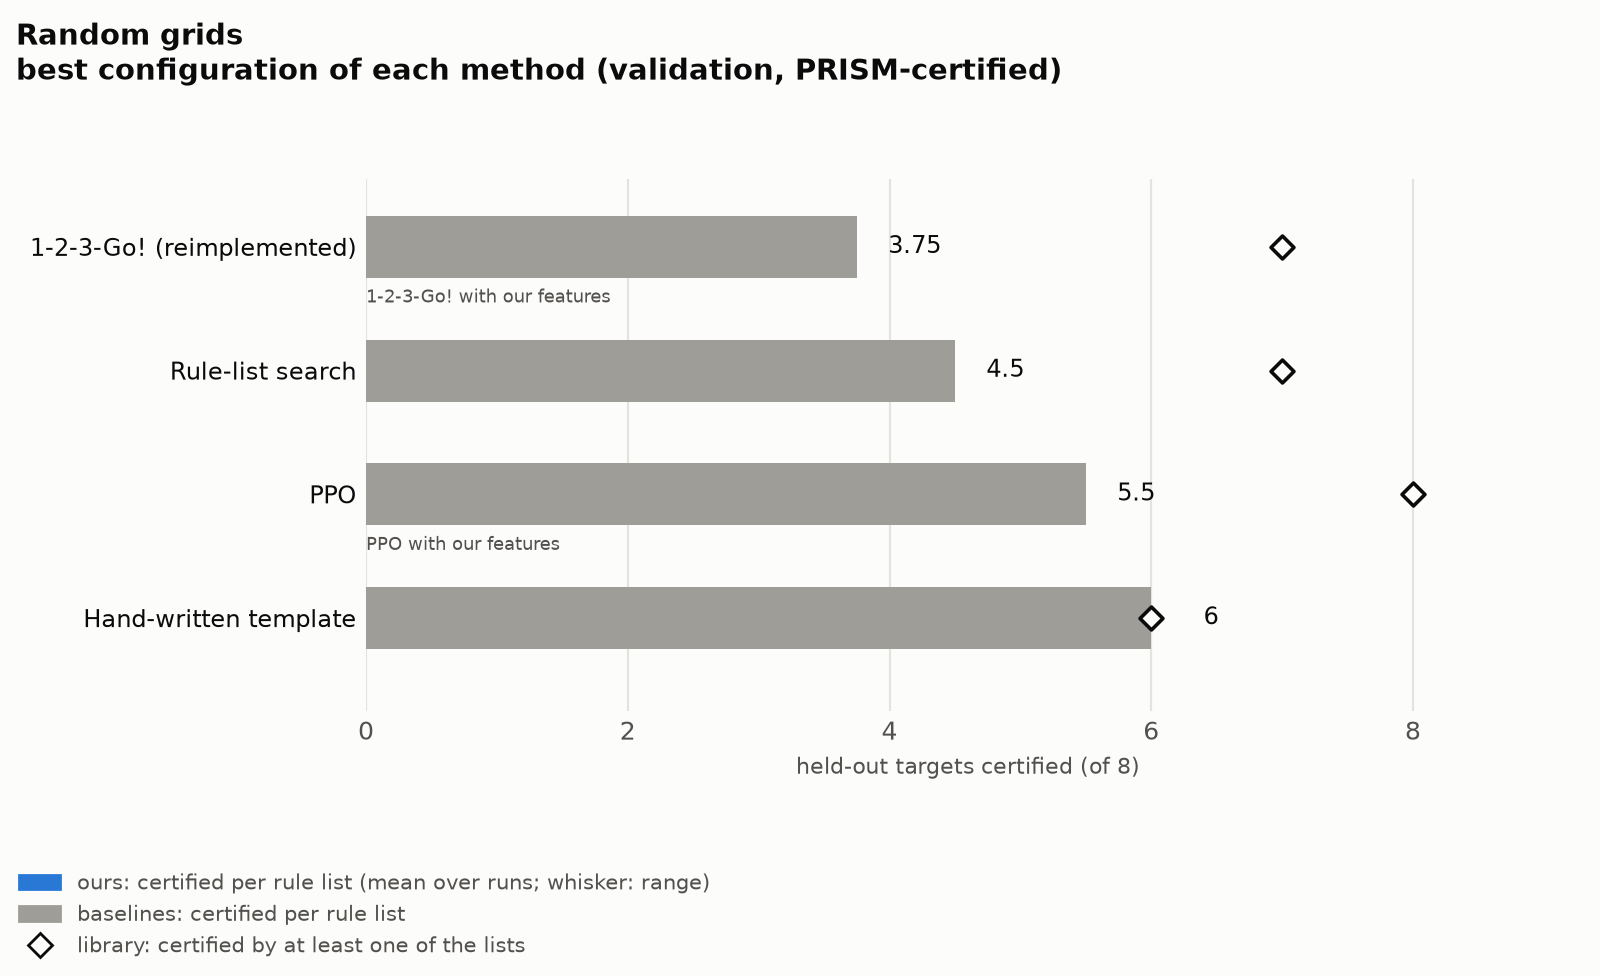
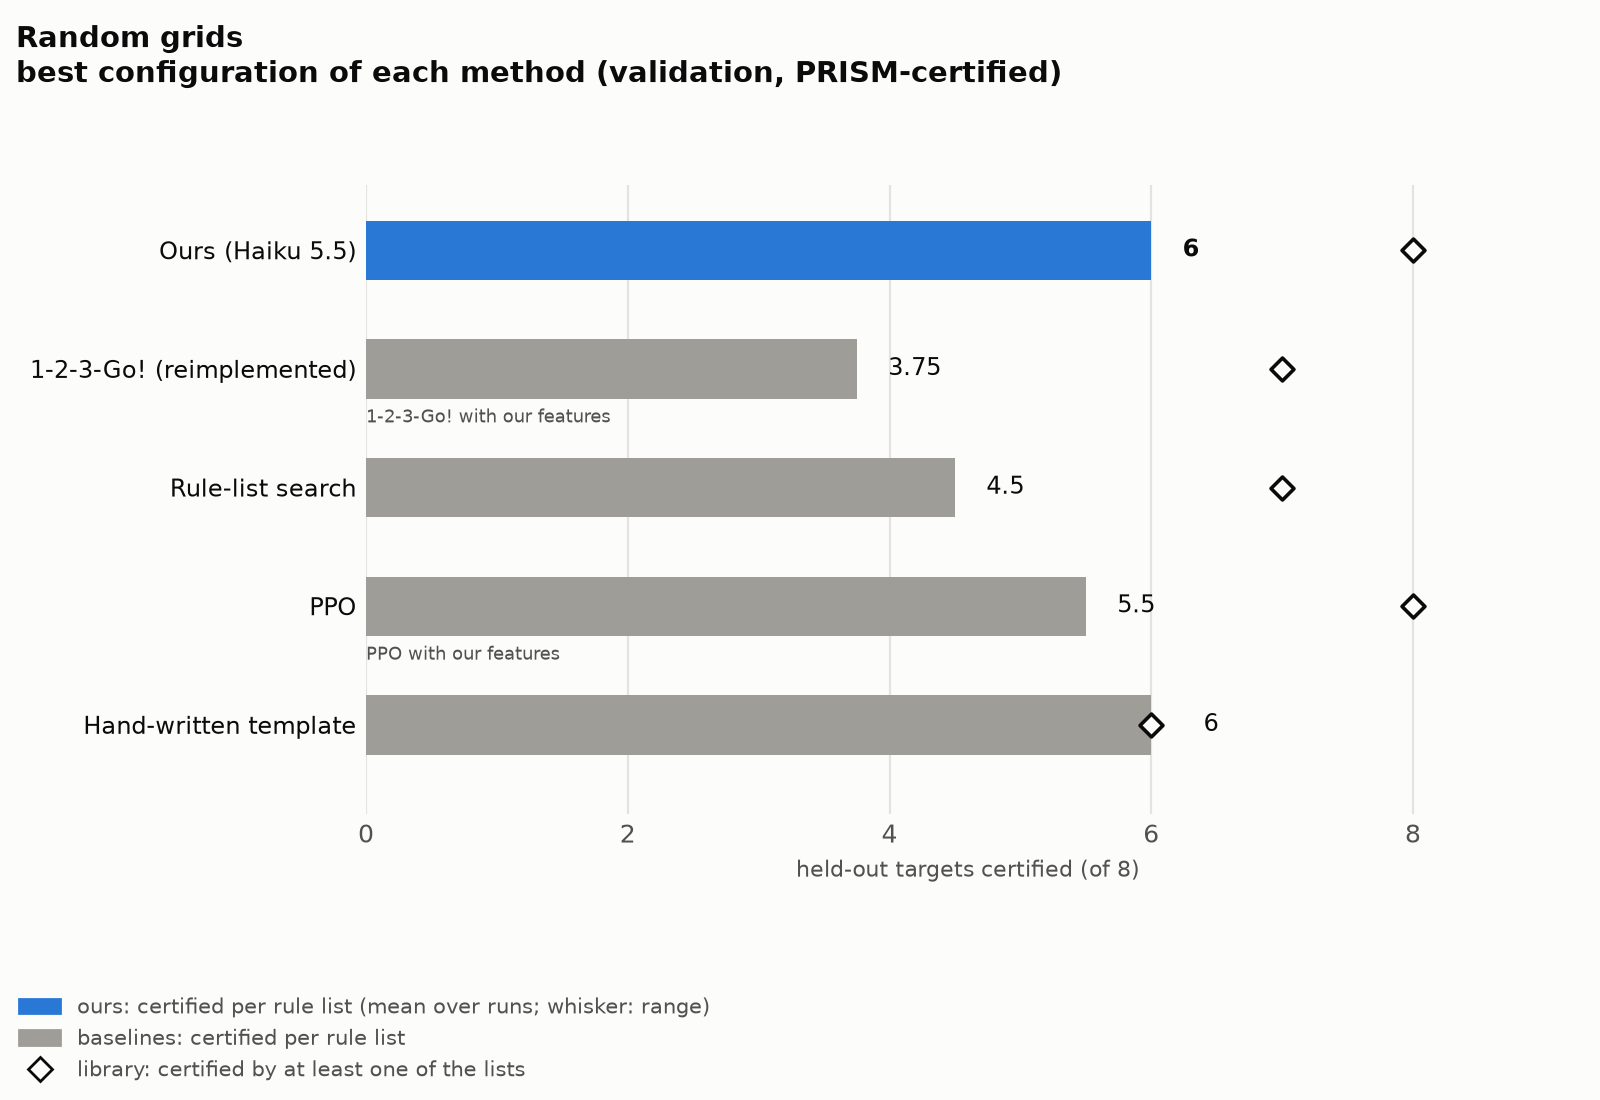
Reports rebuilt with the rebuilt loop as RQ1's core (random grids repeat 1: 6.00) and the previous-loop page

diff --git a/PRISM-Guided-Learning/out/results/experiments/rq2_previous_loop/REPORT.md b/PRISM-Guided-Learning/out/results/experiments/rq2_previous_loop/REPORT.md
@@ -10,9 +10,9 @@ Targets 12-19 (each list's own training instances left out); certified of 8.
 
 | condition | code | runs | certified | Δ vs reference | ties open | library | sets solved | rounds / set | output tokens / set |
 |---|---|---|---|---|---|---|---|---|---|
-| New loop (core) | New | 0 | – | – | – | – | – | – | – |
-| Previous loop, Haiku 5.5 | Prev | 5 | 6.25 (5.50–7.00) | – | 5.20 (4.00–6.25) | 8.0 | 10% (0%–25%) | 4.9 (4.5–5.0) | 11,315 (8,570–15,009) |
-| Previous loop, Sonnet 5.5 | Prev Sonnet | 3 | 6.67 (5.75–7.25) | – | 6.42 (5.50–7.00) | 8.0 | 75% | 2.8 (2.8–3.0) | 27,330 (22,730–35,251) |
+| New loop (core) | New | 1 | 6.00 | reference | 6.00 | 8.0 | 75% | 55.5 | 117,726 |
+| Previous loop, Haiku 5.5 | Prev | 5 | 6.25 (5.50–7.00) | +0.25 [-0.10, +0.60] | 5.20 (4.00–6.25) | 8.0 | 10% (0%–25%) | 4.9 (4.5–5.0) | 11,315 (8,570–15,009) |
+| Previous loop, Sonnet 5.5 | Prev Sonnet | 3 | 6.67 (5.75–7.25) | +0.67 [+0.17, +1.17] | 6.42 (5.50–7.00) | 8.0 | 75% | 2.8 (2.8–3.0) | 27,330 (22,730–35,251) |
 
 ## Random grids without `closer`
 
@@ -20,9 +20,9 @@ Targets 12-19 (each list's own training instances left out); certified of 8.
 
 | condition | code | runs | certified | Δ vs reference | ties open | library | sets solved | rounds / set | output tokens / set |
 |---|---|---|---|---|---|---|---|---|---|
-| New loop (core) | New | 0 | – | – | – | – | – | – | – |
-| Previous loop, Haiku 5.5 | Prev | 5 | 3.40 (3.00–3.75) | – | 0.00 | 6.0 (5.0–7.0) | 0% | 5.0 | 13,596 (12,449–15,153) |
-| Previous loop, Sonnet 5.5 | Prev Sonnet | 3 | 2.92 (2.75–3.00) | – | 0.58 (0.50–0.75) | 6.3 (6.0–7.0) | 50% | 3.9 (3.8–4.0) | 54,993 (47,218–70,154) |
+| New loop (core) | New | 1 | 3.25 | reference | 3.25 | 6.0 | 50% | 55.5 | 108,444 |
+| Previous loop, Haiku 5.5 | Prev | 5 | 3.40 (3.00–3.75) | +0.15 [-0.05, +0.35] | 0.00 | 6.0 (5.0–7.0) | 0% | 5.0 | 13,596 (12,449–15,153) |
+| Previous loop, Sonnet 5.5 | Prev Sonnet | 3 | 2.92 (2.75–3.00) | -0.33 [-0.42, -0.25] | 0.58 (0.50–0.75) | 6.3 (6.0–7.0) | 50% | 3.9 (3.8–4.0) | 54,993 (47,218–70,154) |
 
 ## Gridworld families
 

diff --git a/PRISM-Guided-Learning/out/results/experiments/README.md b/PRISM-Guided-Learning/out/results/experiments/README.md
@@ -12,7 +12,7 @@ RQ2 at a glance: [rq2_overview.png](rq2_overview.png) (every ablation cell again
 
 | cell | grids | grids_noclose | families | pacman | mer | mer_n | mer_one | mer_n_one |
 |---|---|---|---|---|---|---|---|---|
-| Ours, Haiku 5.5 | 0/3 (launch: false) | 0/3 (launch: false) | 3/3 ✓ | 3/3 ✓ | 3/3 ✓ | 3/3 ✓ | 3/3 ✓ | 3/3 ✓ |
+| Ours, Haiku 5.5 | 1/3 (launch: false) | 1/3 (launch: false) | 3/3 ✓ | 3/3 ✓ | 3/3 ✓ | 3/3 ✓ | 3/3 ✓ | 3/3 ✓ |
 | 1-2-3-Go! (reimplemented: trees over raw variables) (baseline) | certified ✓ |  | certified ✓ | certified ✓ | certified ✓ | certified ✓ | certified ✓ | certified ✓ |
 | 1-2-3-Go! trained on horizon 5 (as the paper) (baseline) |  |  |  | certified ✓ |  |  |  |  |
 | 1-2-3-Go! trained on n = 1 (as the paper) (baseline) |  |  |  |  | certified ✓ | certified ✓ |  |  |
@@ -83,7 +83,7 @@ RQ2 at a glance: [rq2_overview.png](rq2_overview.png) (every ablation cell again
 
 | cell | grids | grids_noclose | families | pacman | mer | mer_n |
 |---|---|---|---|---|---|---|
-| New loop (core) | 0/3 (launch: false) | 0/3 (launch: false) | 3/3 ✓ | 3/3 ✓ | 3/3 ✓ | 3/3 ✓ |
+| New loop (core) | 1/3 (launch: false) | 1/3 (launch: false) | 3/3 ✓ | 3/3 ✓ | 3/3 ✓ | 3/3 ✓ |
 | Previous loop, Haiku 5.5 | 5/5 ✓ | 5/5 ✓ | 5/5 ✓ | 5/5 ✓ | 5/5 ✓ | 5/5 ✓ |
 | Previous loop, Sonnet 5.5 | 3/3 ✓ | 3/3 ✓ | 3/3 ✓ | 3/3 ✓ | 3/3 ✓ | 3/3 ✓ |
 

diff --git a/PRISM-Guided-Learning/out/results/experiments/rq1_comparison/REPORT.md b/PRISM-Guided-Learning/out/results/experiments/rq1_comparison/REPORT.md
@@ -12,6 +12,7 @@ Targets 12-19: 8 held out (each list's own training instances are left out).
 
 | method | configuration | figure | runs | certified | every target | best list | library | ties open | sets solved | $ / set |
 |---|---|---|---|---|---|---|---|---|---|---|
+| Ours (Haiku 5.5) | **Ours, Haiku 5.5** | ✓ | 1 | 6.00 | 6.00 | 7 | 8.0 | 6.00 | 75% | 0.100 |
 | 1-2-3-Go! (reimplemented) | 1-2-3-Go! (reimplemented: trees over raw variables) |  | – | 0.00 | 0.00 | 0 | 0.0 | 0.00 | – | – |
 | 1-2-3-Go! (reimplemented) | 1-2-3-Go! with our features | ✓ | – | 3.75 | 3.75 | 7 | 7.0 | 3.75 | – | – |
 | Rule-list search | Rule-list search | ✓ | – | 4.50 | 4.50 | 7 | 7.0 | 2.75 | – | – |
@@ -27,6 +28,7 @@ Targets 12-19: 8 held out (each list's own training instances are left out).
 
 | method | configuration | figure | runs | certified | every target | best list | library | ties open | sets solved | $ / set |
 |---|---|---|---|---|---|---|---|---|---|---|
+| Ours (Haiku 5.5) | **Ours, Haiku 5.5** | ✓ | 1 | 3.25 | 3.25 | 4 | 6.0 | 3.25 | 50% | 0.101 |
 | 1-2-3-Go! (reimplemented) | 1-2-3-Go! with our features | ✓ | – | 1.50 | 1.50 | 2 | 3.0 | 1.50 | – | – |
 | Rule-list search | Rule-list search | ✓ | – | 1.25 | 1.25 | 2 | 2.0 | 0.50 | – | – |
 | Hand-written template | Hand-written template | ✓ | – | 6.00 | 6.00 | 6 | 6.0 | 6.00 | – | – |
